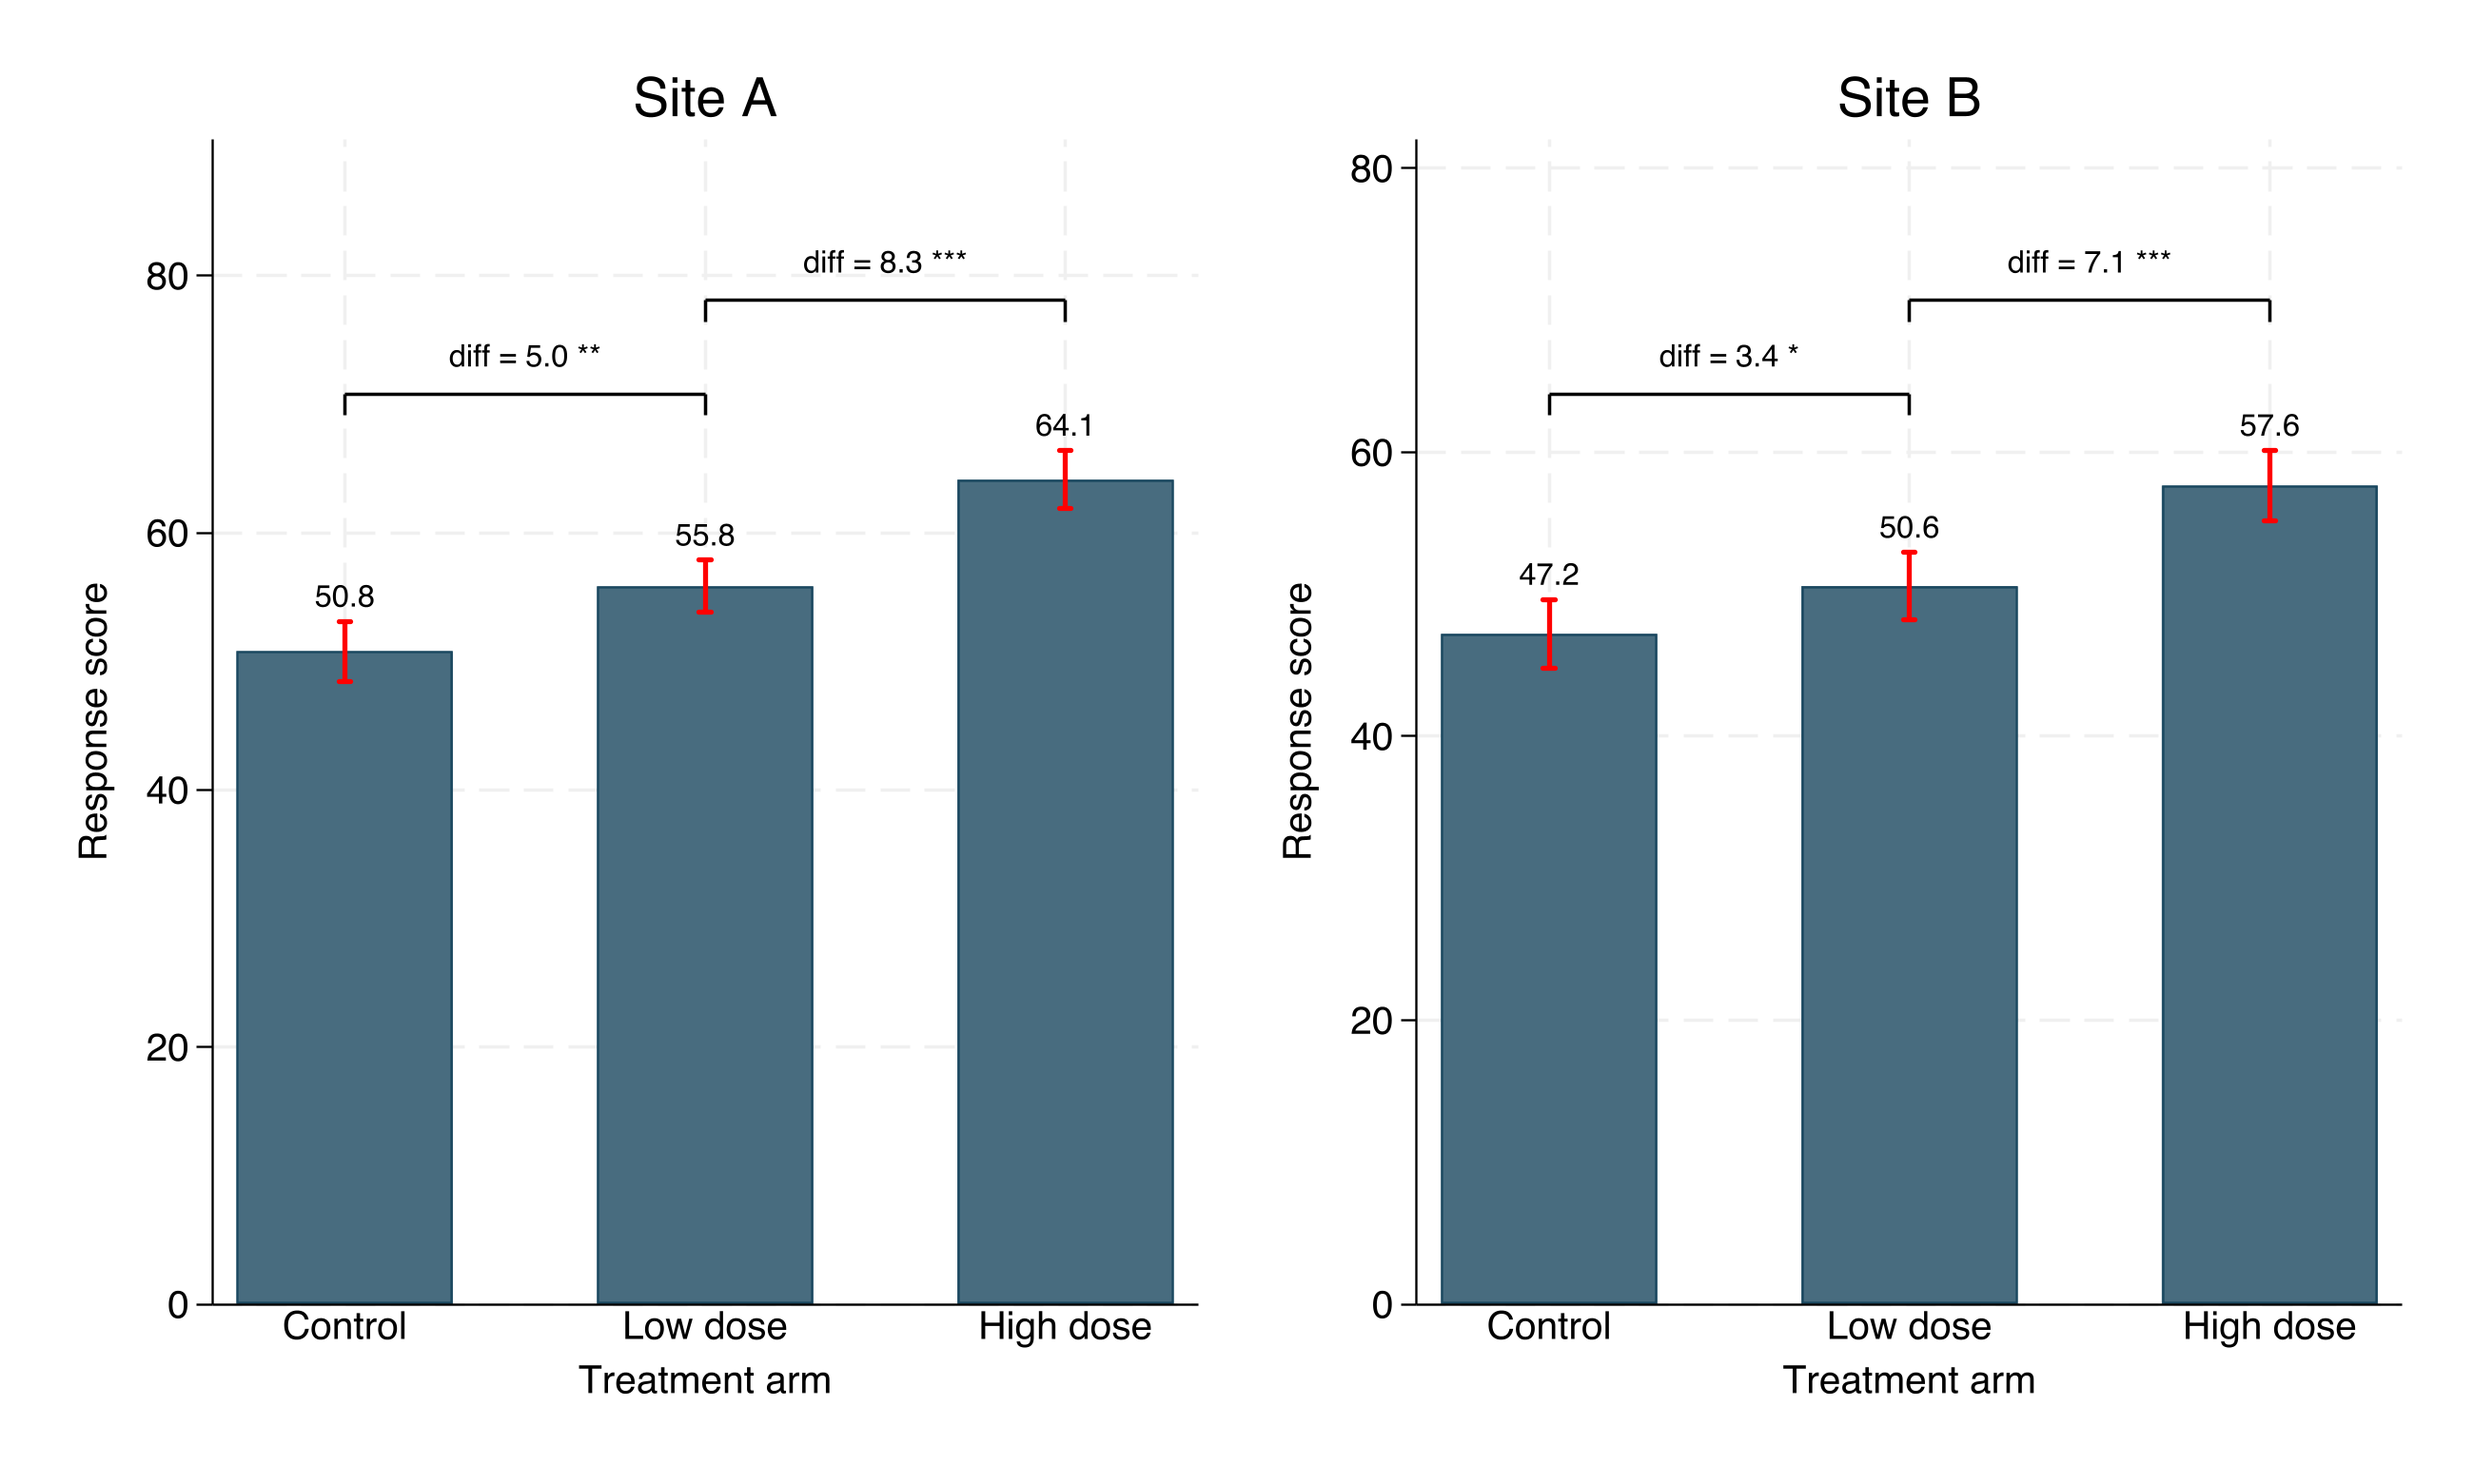
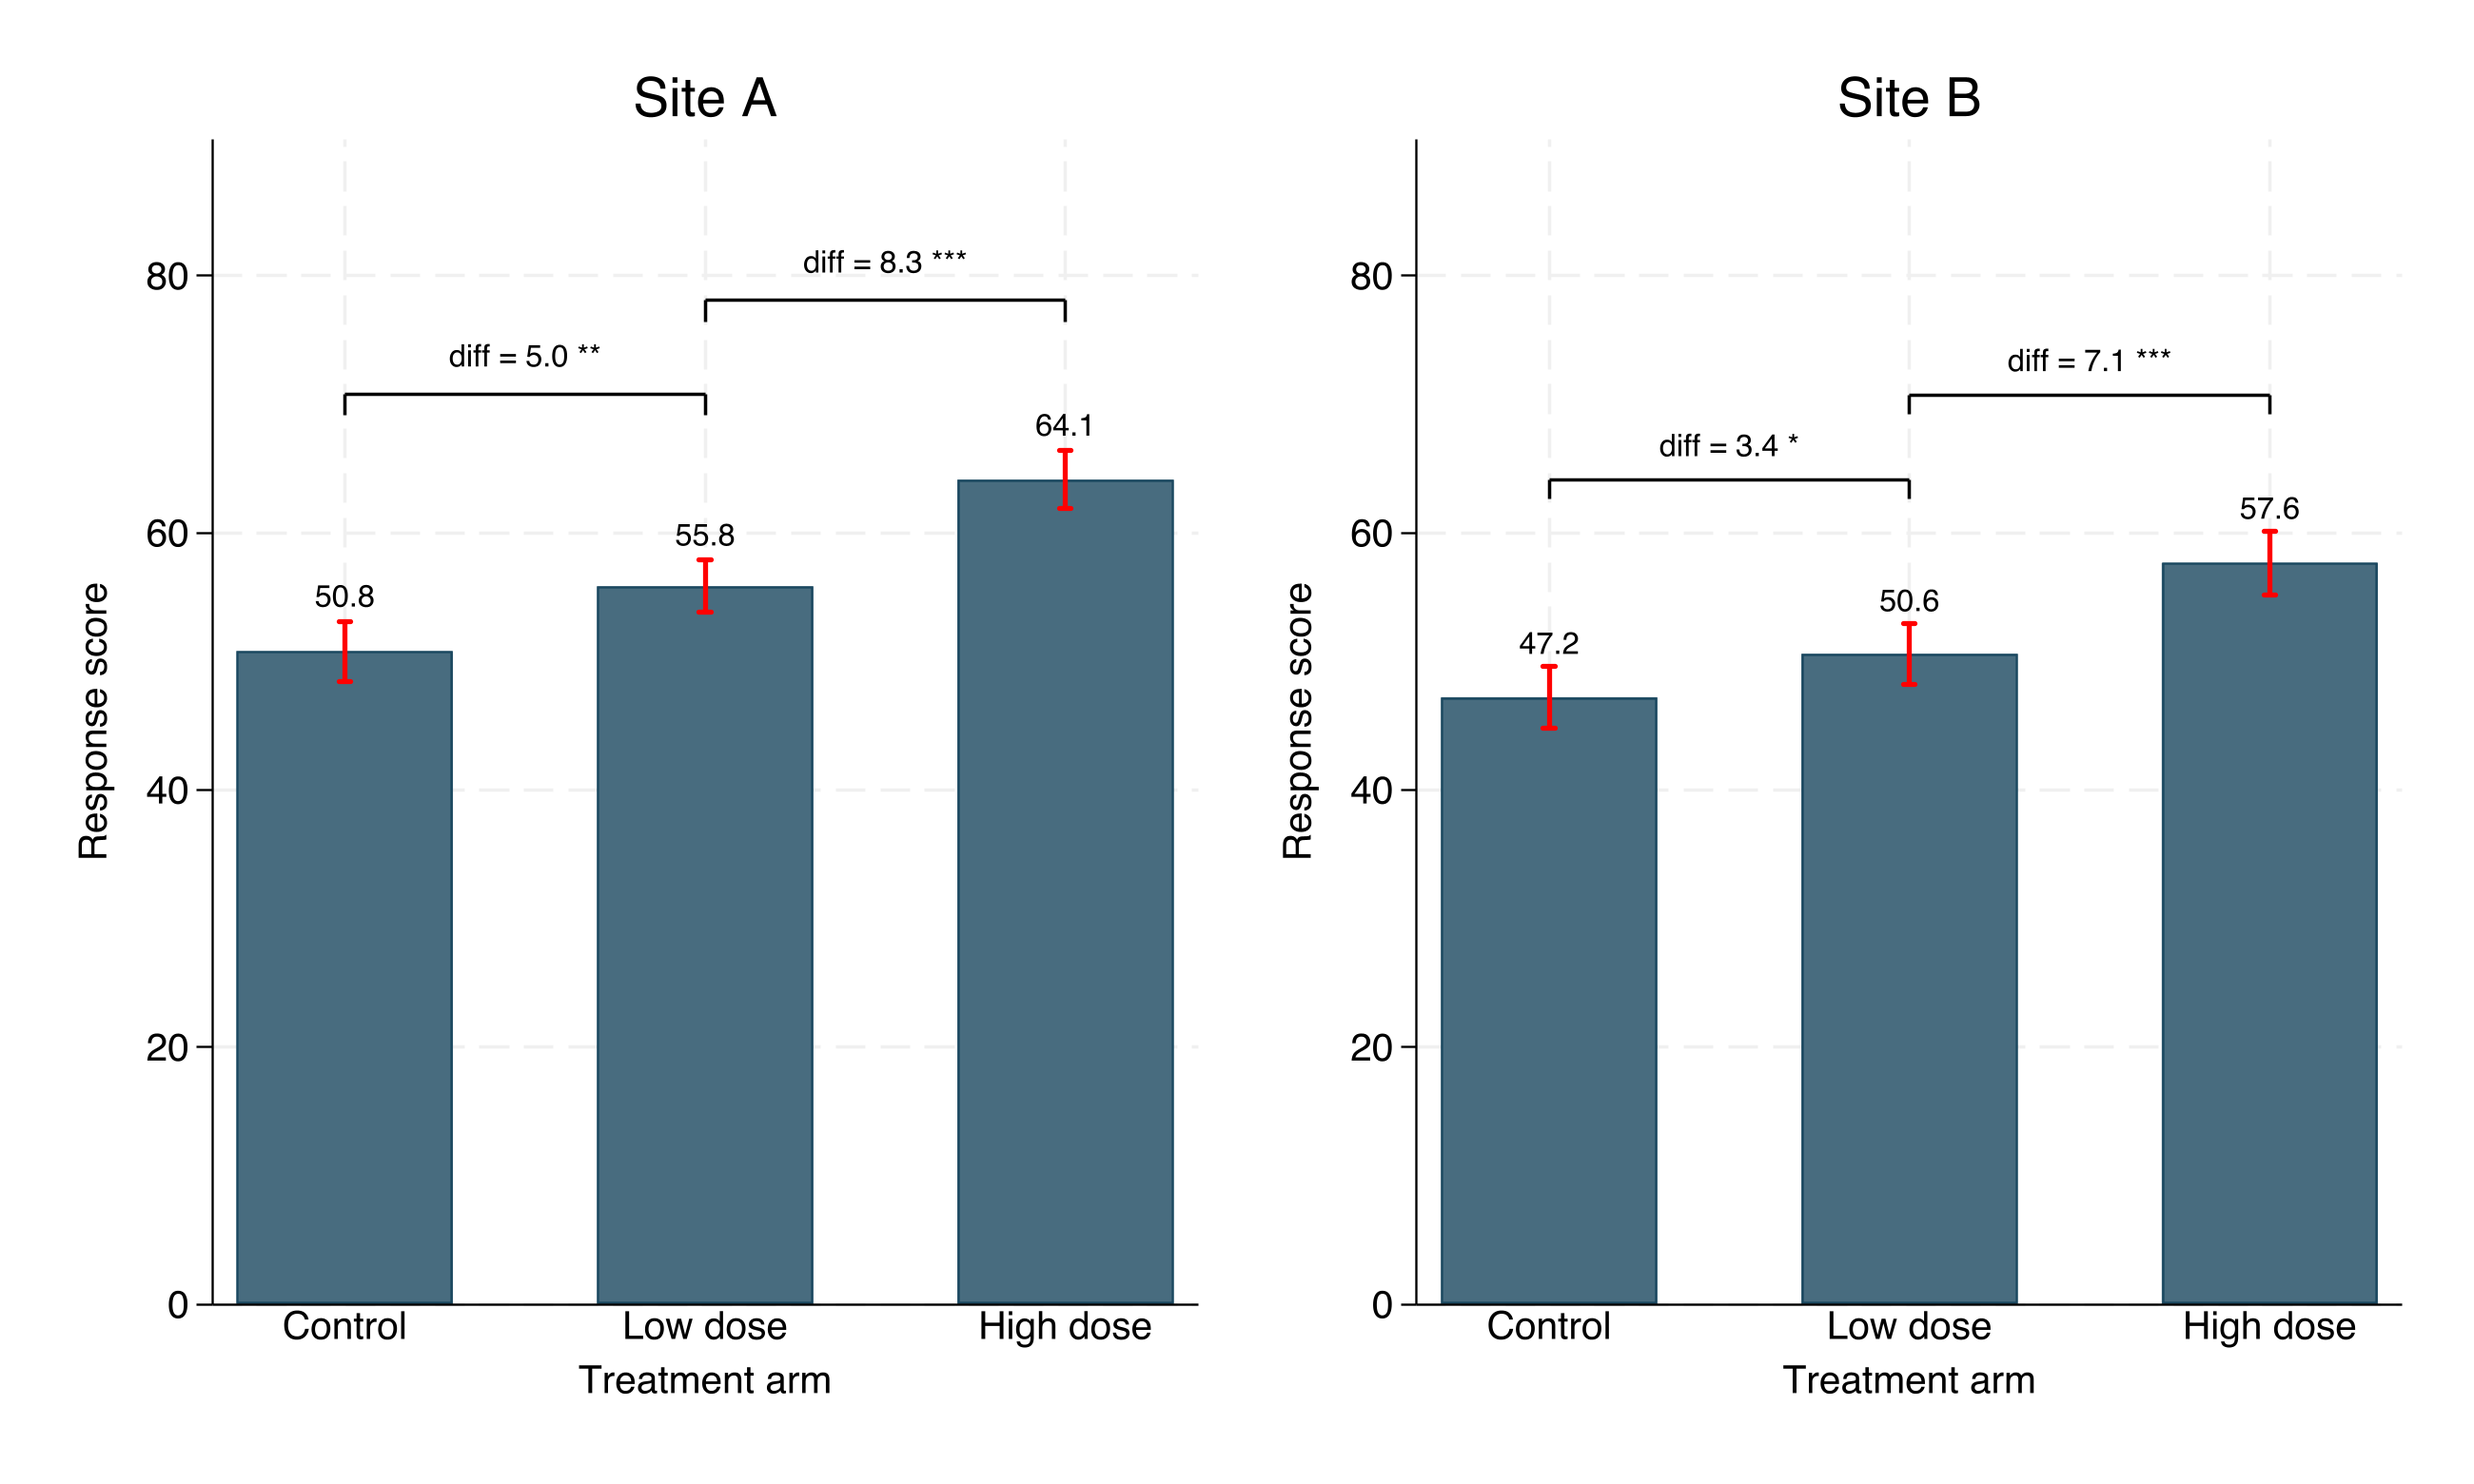
v1.6: panel() faceting + ycommon shared axis; demo data + figure; docs

diff --git a/README.md b/README.md
@@ -95,6 +95,9 @@ comparing the same grouping across sites, markers, time points, etc.
 ```stata
 use "https://raw.githubusercontent.com/ganma0517/stata_barttest/main/barttest_panel_demo.dta", clear
 barttest resp, by(arm) panel(site) stars
+
+* add ycommon so bar heights are directly comparable across panels
+barttest resp, by(arm) panel(site) stars ycommon
 ```
 
 ![panel example](example_panel.png)
@@ -115,6 +118,7 @@ barttest depvar [if] [in], by(groupvar) [options]
 | `stars` | label brackets with `* ** ***` / `ns` | off (shows p) |
 | `panel(varname)` | facet: one sub-plot per level | — |
 | `cols(#)` | columns when faceting | auto |
+| `ycommon` | shared y-axis across panels (matching bar heights) | off |
 | `barwidth(#)` | bar width | 0.6 |
 | `barcolor()` `capcolor()` | bar / error-bar colors | navy / red |
 | `decimals(#)` | decimals for means and diff | 1 |
